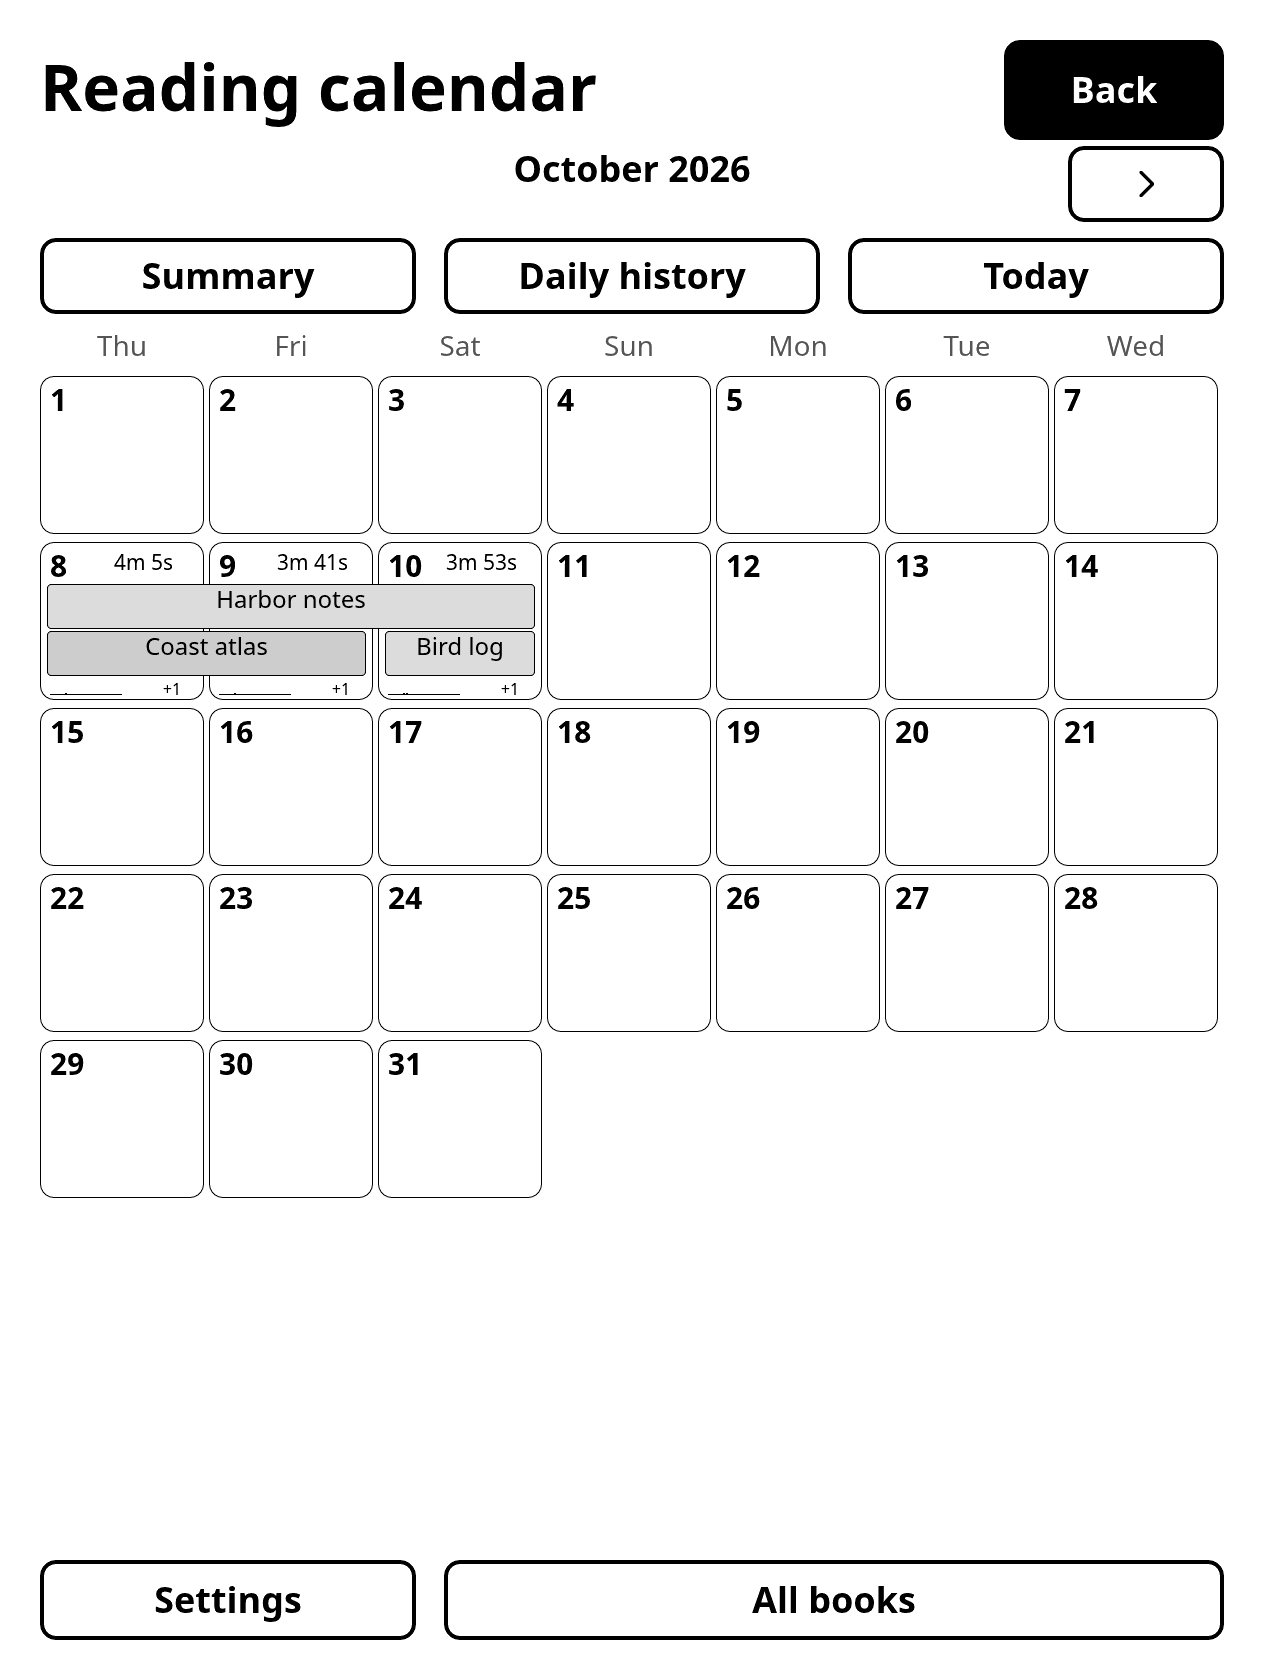
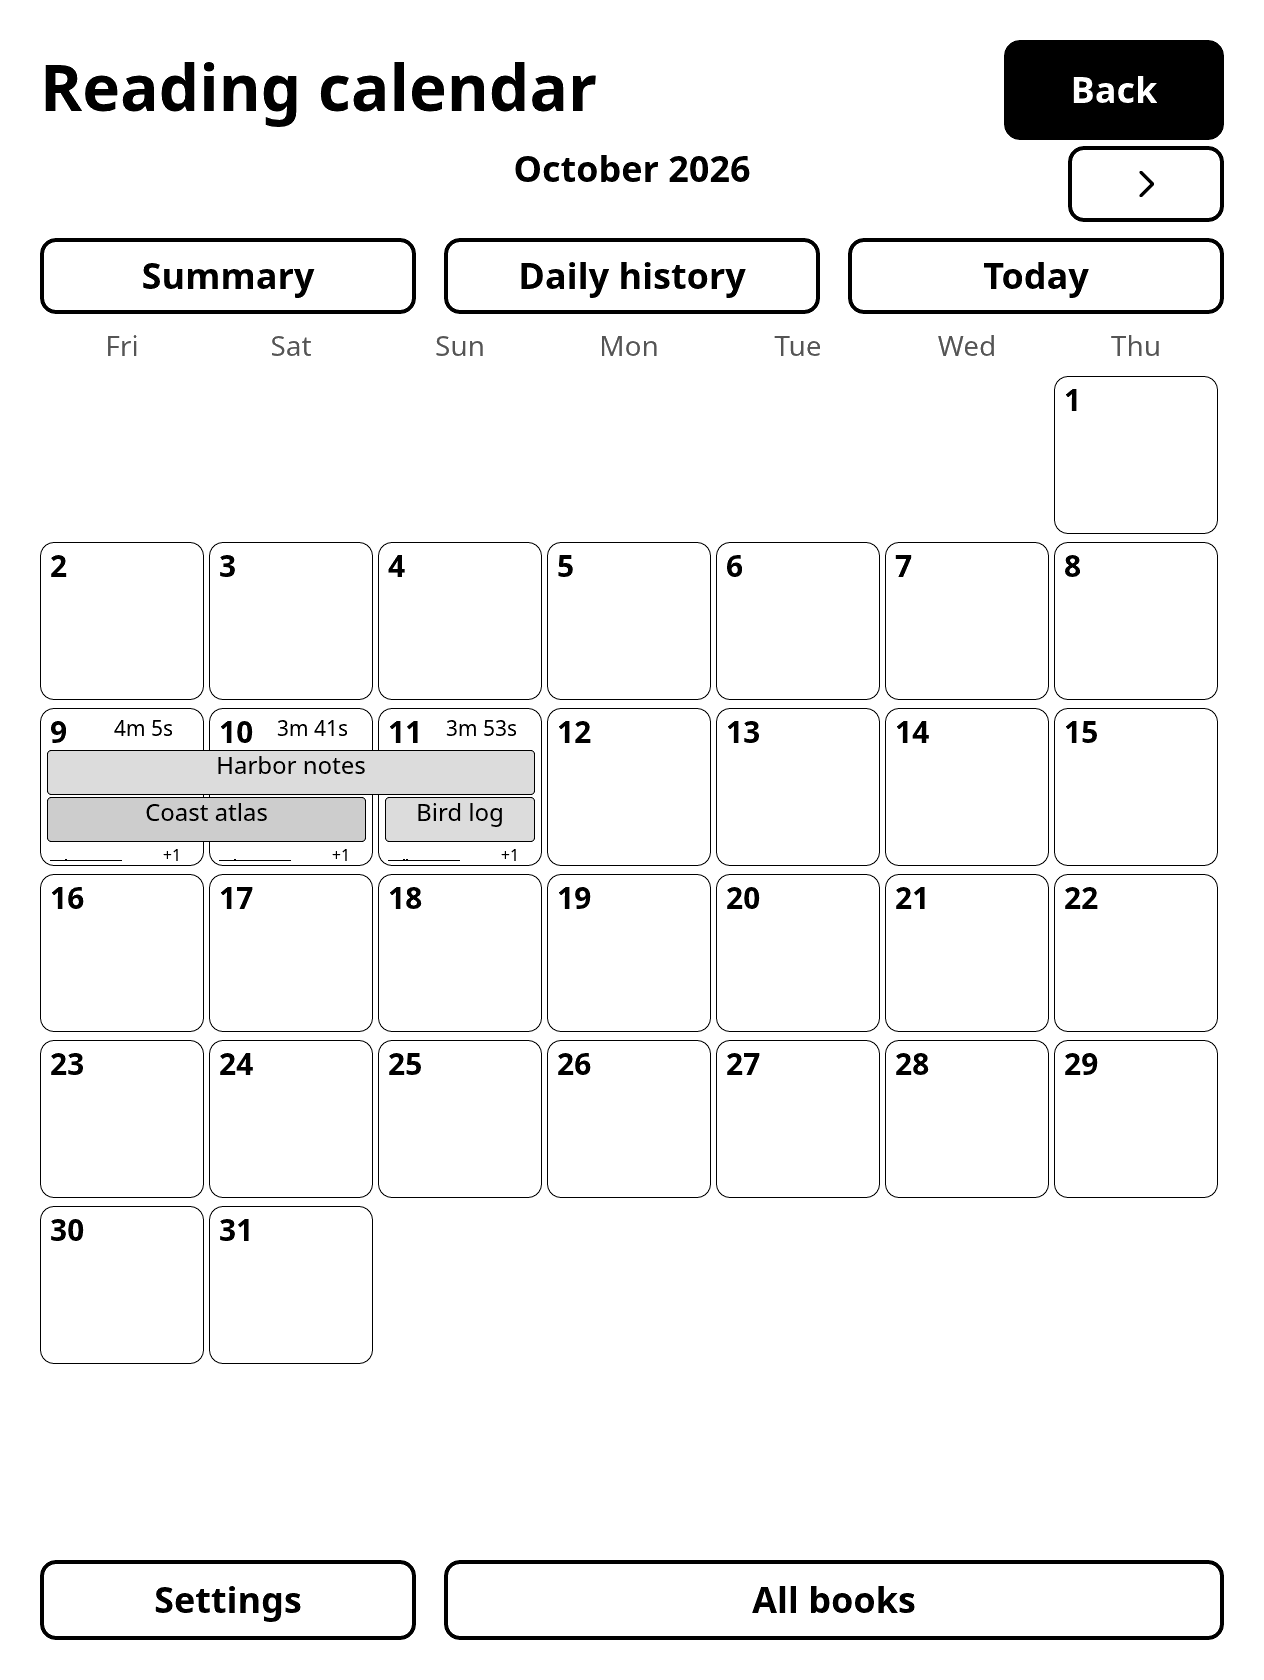
Verify the combined Reader candidate against stock calendar choices

diff --git a/src/app/reading_history/calendar_options.rs b/src/app/reading_history/calendar_options.rs
@@ -12,6 +12,7 @@ const WEEKDAYS: [&str; 7] = [
     "Friday",
     "Saturday",
 ];
+const WEEK_START_CHOICES: [u8; 4] = [5, 6, 0, 1];
 
 #[derive(Clone, Copy, Debug, PartialEq, Eq)]
 pub(in crate::app) enum Choice {
@@ -121,14 +122,13 @@ impl Reader {
             }
         };
         match choice {
-            Choice::WeekStart => WEEKDAYS
+            Choice::WeekStart => WEEK_START_CHOICES
                 .iter()
-                .enumerate()
-                .map(|(day, title)| {
+                .map(|&day| {
                     item(
-                        (*title).into(),
+                        WEEKDAYS[usize::from(day)].into(),
                         Options {
-                            week_start: day as u8,
+                            week_start: day,
                             ..options
                         },
                     )
@@ -304,21 +304,28 @@ mod tests {
         select(&mut app, "Also use in calendar view");
         assert!(app.reading_history.options().calendar_uses_shift());
         select(&mut app, "Calendar week starts");
-        assert_eq!(app.list_window().0, 7);
-        select(&mut app, "Thursday");
+        let weekdays: Vec<_> = app
+            .list_window()
+            .1
+            .into_iter()
+            .map(|item| item.title)
+            .collect();
+        assert_eq!(weekdays, ["Friday", "Saturday", "Sunday", "Monday"]);
+        select(&mut app, "Friday");
         select(&mut app, "Books per calendar day");
         select(&mut app, "2");
         let options = app.reading_history.options();
         assert!(options.calendar_uses_shift());
-        assert_eq!(options.week_start, 4);
+        assert_eq!(options.week_start, 5);
         assert_eq!(options.calendar_book_spans, 2);
 
         let month = Date::today().add_months(-1).unwrap();
+        let friday = 8 + (5 + 7 - month.weekday()) % 7;
         let mut index = 0;
         for (day, visits) in [
-            (8, vec![(1, 100), (2, 80), (3, 65)]),
-            (9, vec![(2, 110), (1, 75), (4, 36)]),
-            (10, vec![(1, 110), (4, 78), (3, 45)]),
+            (friday, vec![(1, 100), (2, 80), (3, 65)]),
+            (friday + 1, vec![(2, 110), (1, 75), (4, 36)]),
+            (friday + 2, vec![(1, 110), (4, 78), (3, 45)]),
         ] {
             let day = Date { day, ..month };
             for (book, seconds) in visits {
@@ -344,7 +351,10 @@ mod tests {
         assert_eq!(app.history_view.month, month);
         capture_test_screen(&app, &fonts, "READER_STATS_SPANS_SCREEN", false);
         let offset = (month.weekday() + 7 - options.week_start) % 7;
-        let day = Date { day: 8, ..month };
+        let day = Date {
+            day: friday,
+            ..month
+        };
         assert_eq!(
             app.input(tap(super::super::cell(usize::from(offset + day.day - 1)))),
             Change::Partial

diff --git a/scripts/compare-calendar-options.py b/scripts/compare-calendar-options.py
@@ -36,10 +36,15 @@ lua.execute("""
     DEFAULT_CALENDAR_NB_BOOK_SPANS = 3
     CalendarWeek = {}
     NumberPickerWidget = {}
+    local names = {"Sunday", "Monday", "Tuesday", "Wednesday", "Thursday", "Friday", "Saturday"}
+    datetime = {weekDays = names, shortDayOfWeekToLongTranslation = {}}
+    for _, name in ipairs(names) do datetime.shortDayOfWeekToLongTranslation[name] = name end
 """)
 start = stats.rfind("\n                    {", 0, stats.index('return T(_("Books per calendar day:'))
 end = stats.rfind("\n                    {", 0, stats.index('return T(_("Cloud sync:'))
 lua.globals().controls = lua.eval("function(self) return {" + stats[start:end] + "} end")
+week = stats.rfind("\n                    {", 0, stats.index('return T(_("Calendar weeks start on'))
+lua.globals().week_control = lua.eval("function(self) return ({" + stats[week:start] + "})[1] end")
 start = calendar.index("function CalendarWeek:addDay(")
 end = calendar.index("\n-- Set of", start)
 lua.execute(calendar[start:end])
@@ -52,10 +57,23 @@ lua.execute("""
     local menu = controls(stats)
     local updated = 0
     local context = {updateItems = function() updated = updated + 1 end}
+    local starts = week_control(stats).sub_item_table
+    local weekdays = {"Friday", "Saturday", "Sunday", "Monday"}
+    local values = {6, 7, 1, 2}
+    assert(#starts == #weekdays)
+    for i, item in ipairs(starts) do
+        assert(item.text == weekdays[i])
+        item.callback()
+        assert(item.checked_func() and stats.settings.calendar_start_day_of_week == values[i])
+    end
     menu[1].callback(context)
     assert(shown.value == 3 and shown.value_min == 1 and shown.value_max == 5 and shown.default_value == 3)
     shown.callback({value = 2})
     assert(stats.settings.calendar_nb_book_spans == 2 and updated == 1)
+    menu[2].callback()
+    assert(menu[2].checked_func())
+    menu[3].callback()
+    assert(menu[3].checked_func())
     menu[4].callback(context)
     assert(shown.hour == 0 and shown.min == 0 and shown.min_step == 10 and shown.min_hold_step == 30 and shown.min_max == 50)
     shown.callback({hour = 4, min = 20})

diff --git a/docs/reading-statistics.md b/docs/reading-statistics.md
@@ -9,7 +9,7 @@ Open **Tools › Reading statistics**, **Reading data › Reading statistics**, 
 | Time range | Compare reading time and distinct screens by week or month, then open a period for its individual books |
 | Calendar | A month grid with reading time, book titles that span consecutive days, and an optional hourly histogram. Tap a day, swipe, or use page buttons to change months. |
 | Day timeline | An hourly histogram and book intervals clipped to the selected day; tap an interval for its book sessions and **Continue reading** |
-| Settings | Enable statistics, set visit limits, freeze finished books, choose any starting weekday, edit the timeline start, apply the shift to the calendar, limit book spans, show the histogram, and browse future months. |
+| Settings | Enable statistics, set visit limits, freeze finished books, choose the starting weekday, edit the timeline start, apply the shift to the calendar, limit book spans, show the histogram, and browse future months. |
 
 <img src="screenshots/reading-calendar-book-spans.png" width="350" alt="Reader's monthly calendar with two ranked book titles per day and titles spanning adjacent dates">
 <img src="screenshots/reading-timeline.png" width="350" alt="Reader's day timeline with hourly reading bars and book sessions">
@@ -25,7 +25,10 @@ calendar view** applies the shift to month cells independently. Older journals
 with a shifted calendar keep that preference. Today in the timeline opens the
 previous date until the configured start time arrives. [Time editor](screenshots/reading-calendar-start-time.png)
 
-**Books per calendar day** accepts one through five and defaults to three. The
+The week can start on Friday, Saturday, Sunday, or Monday, the choices in the
+pinned stock menu. An existing weekday from an older Reader journal remains
+active until you choose a new start. **Books per calendar day** accepts one
+through five and defaults to three. The
 calendar sorts titles by time read, breaking ties by stable book ID. A title
 that also ranks on the next day keeps its row through that week. The `+n` count
 shows additional titles. Tap the day for its full timeline. The optional
@@ -120,7 +123,8 @@ The pinned Lua/SQLite check exercises the save and shift callbacks, picker
 wrapping, book duration ranking, and spans across adjacent days. Rust tests
 cover the 04:20 boundary in a fractional-offset zone, both shift choices,
 failed saves, book filtering, and the saved reading position. The separate
-seven-day progress report and local statistics database import remain open.
+seven-day progress report, exact visit-duration editor, and local statistics
+database import remain open.
 Reader records the actual pre- and
 post-pause portions of each visit.
 [Stock calendar comparison](../scripts/compare-calendar-options.py) · [Stock layout rescaling](https://github.com/koreader/koreader/blob/v2026.07.1/plugins/statistics.koplugin/main.lua#L439-L441) · [Stock pause and resume timestamps](https://github.com/koreader/koreader/blob/v2026.07.1/plugins/statistics.koplugin/main.lua#L2694-L2732)

diff --git a/docs/simulation-review.md b/docs/simulation-review.md
@@ -2,7 +2,28 @@
 
 ## Current Mac simulator checkpoint
 
-The current pass adds the Reader Back gesture, independent fuzzy dictionary
+This pass exercises calendar book spans, a minute-based timeline start and a
+separate month shift. The reviewed calendar and time editor use original
+fixtures. The stock callback harness also executes the ranking query and week
+span calculation. An offline dictionary miss offers a one-shot fuzzy retry
+when fuzzy search is disabled. Saved profiles accept word spacing and expansion
+before Apply, and the internal EPUB keep policy uses available space for an
+oversized text group. [Calendar controls](reading-statistics.md#calendar-and-timeline-settings) ·
+[Dictionary word forms](dictionary-word-forms.md) ·
+[Saved profile values](reading-profiles.md#editing-saved-values) ·
+[Publisher keep comparison](render-modes.md)
+
+The latest original-file verifier opened one cached EPUB, PDF, and AZW3 through
+the file picker, turned a page, and resumed at identical page pixels. The
+source SHA-256 values matched before and after. The reviewed dictionary retry
+and time editor frames were reproduced byte for byte. The exact combined Mac
+run passed 1,318 library tests, one Kindle entry test, 14 EPUB package tests,
+and four layout checks. Sixty-six opt-in tests were skipped. Kindle foreground
+acceptance and the Store release remain open.
+
+## Previous Mac simulator checkpoint
+
+This pass added the Reader Back gesture, independent fuzzy dictionary
 search, saved profile margin editing, and nested publisher margin collapse. In
 the simulator, Back restores exact within-page EPUB scroll positions and PDF pan
 offsets. The real-file picker opened one cached original EPUB, PDF, and AZW3,
@@ -17,7 +38,7 @@ skipped. The Skim placement workflow retained its existing options and order,
 and the exit confirmation matched the reviewed frame byte for byte. Physical
 Kindle acceptance for this candidate remains open. [Back settings capture](screenshots/back-navigation-settings.png)
 
-## Previous Mac simulator checkpoint
+## Earlier Mac simulator checkpoint
 
 The desktop example opened an authored EPUB and PDF in separate simulator
 profiles. It rendered the ordinary Reader surfaces, top and bottom toolbars,

diff --git a/docs/koreader-sdl-reference.md b/docs/koreader-sdl-reference.md
@@ -4,7 +4,7 @@ This is a fresh comparison against genuine pinned KOReader UI running on this Ma
 
 Current evidence for `T3-6.1` through `T3-6.3` covers Back in Reader and the file browser, exit policies, and independent jump and recent-view history. `T3-6.4` remains a keyboard-input gap. [Back navigation](back-navigation.md)
 
-Current evidence for `T4-4.2.3` through `T4-4.2.8` includes all seven starting weekdays, ranked book spans, hourly calendar bins, a minute-based timeline start and a separate calendar shift. The earlier matrix retains the captured baseline. [Calendar and timeline settings](reading-statistics.md#calendar-and-timeline-settings)
+Current evidence for `T4-4.2.3` through `T4-4.2.8` includes the four stock starting weekdays, ranked book spans, hourly calendar bins, a minute-based timeline start and a separate calendar shift. The earlier matrix retains the captured baseline. [Calendar and timeline settings](reading-statistics.md#calendar-and-timeline-settings)
 
 ## Scope and reproducibility
 
